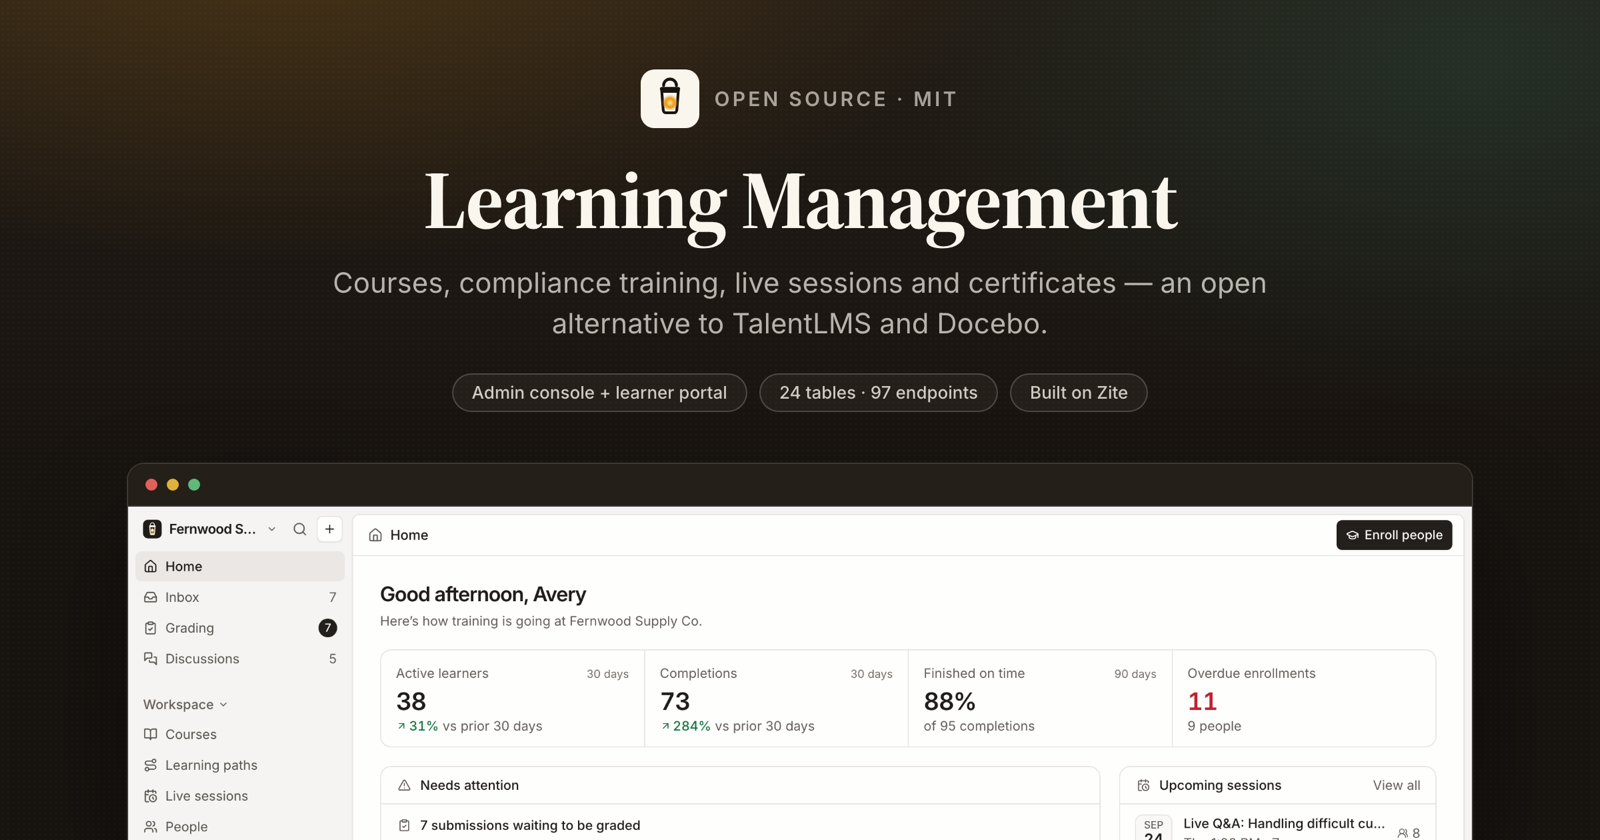
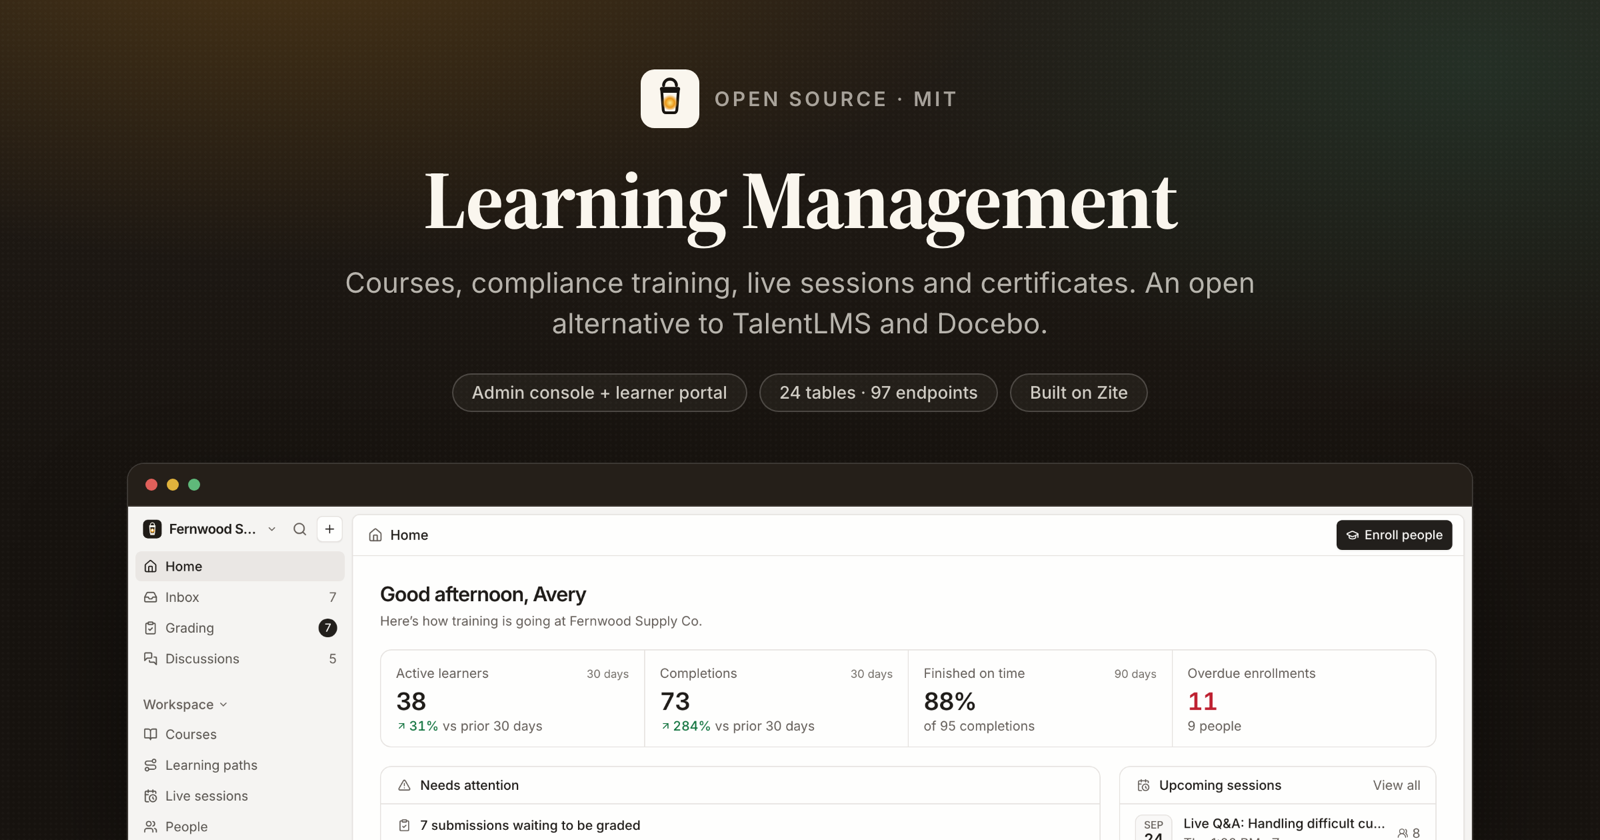
Copy pass on the docs
Drop the marketing framing in the opening paragraph for a plain description of
what a Zite solution is, and the "agent-native" slogan for what actually
happens. Remove em dashes throughout, including the one baked into the hero
image.

Changed region(s): [[0.2188, 0.3095, 0.7812, 0.3714]]

diff --git a/README.md b/README.md
@@ -1,11 +1,12 @@
 <p align="center">
-  <img alt="Learning Management — courses, compliance training, live sessions and certificates" src=".github/assets/hero.png">
+  <img alt="Learning Management: courses, compliance training, live sessions and certificates" src=".github/assets/hero.png">
 </p>
 
 <h3 align="center">Learning Management</h3>
 
 <p align="center">
-  The open-source LMS for compliance training, live sessions and certificates.
+  Open-source learning management: courses, compliance training, live sessions
+  and certificates.
   <br/>
   An open alternative to <b>TalentLMS</b>, <b>Docebo</b> and <b>360Learning</b>.
 </p>
@@ -31,10 +32,10 @@
 Training for a whole organization: build courses, assign them by rule, track
 compliance, run live sessions and issue certificates.
 
-It is a **Zite solution** — a complete workspace you can install and own, not a
-service you rent. [Zite](https://zite.com) gives you a Postgres database, an
-endpoint runtime, auth and hosting; everything above that is the ~76,000 lines of
-TypeScript in this repository. Fork it, change it, and it is yours.
+This is a **Zite solution**, meaning a workspace you install into your own
+[Zite](https://zite.com) account and then edit. Zite provides the Postgres
+database, the endpoint runtime, auth and hosting. Everything above that is the
+~76,000 lines of TypeScript in this repository.
 
 Two apps share one database:
 
@@ -43,9 +44,9 @@ Two apps share one database:
 | **Learning Management** | `apps/learning-management` | Admins and instructors: build courses and paths, enroll people, grade, run sessions, report on compliance | Internal (organization members) |
 | **Learner Portal** | `apps/learner-portal` | Learners and their managers: take courses, register for sessions, earn certificates, follow their team's progress | External (public, with sign-in) |
 
-It opens on a populated demo — Fernwood Supply Co., 39 people, 12 courses, 4
-learning paths and a year of history — so it is usable the moment it is installed,
-and there is a one-click way to delete all of it when you are ready for real data.
+It opens on a populated demo: Fernwood Supply Co., with 39 people, 12 courses, 4
+learning paths and a year of history, so every screen has something in it the
+first time you look. Settings has a one-click way to delete all of it.
 
 <p align="center">
   <img alt="The admin console: active learners, completions, on-time rate, and everything that needs a person" src=".github/assets/admin-home.png">
@@ -58,9 +59,9 @@ and there is a one-click way to delete all of it when you are ready for real dat
 ### For admins and instructors
 
 - **Home.** Active learners, completions and on-time rate against the previous
-  period; everything that needs a person — submissions to grade, unanswered learner
-  questions, overdue training by course, stalled learners, expiring certificates —
-  plus upcoming sessions and recent completions.
+  period, plus everything that needs a person: submissions to grade, unanswered
+  learner questions, overdue training by course, stalled learners and expiring
+  certificates. Upcoming sessions and recent completions sit alongside.
 
 - **Course builder.** Sections and eight lesson types: article (Markdown), video
   (YouTube, Vimeo, Loom, Wistia or an upload, with an optional watch requirement on
@@ -92,7 +93,7 @@ and there is a one-click way to delete all of it when you are ready for real dat
   import; each person's transcript, certificates, sessions and activity.
 
 - **Assignment rules.** Enroll everyone, or chosen groups, in a course or path with a
-  due date — including people who join later — and optionally repeat it every N
+  due date, including people who join later, and optionally repeat it every N
   months as recertification. Preview who a rule reaches before running it.
 
 - **Grading, inbox and discussions.** A grading queue with rubric, grade and feedback
@@ -123,7 +124,7 @@ and there is a one-click way to delete all of it when you are ready for real dat
 
 - **Daily reminders.** A scheduled job (14:00 UTC) sends due-date and overdue
   reminders, a weekly digest to managers of overdue reports, certificate-expiry
-  warnings and session reminders — each at most once per window — and opens
+  warnings and session reminders, each at most once per window, and opens
   recertification cycles when certificates near expiry.
 
 - **Everywhere:** ⌘K command menu, global search, `?` for every shortcut, light and
@@ -154,8 +155,8 @@ and there is a one-click way to delete all of it when you are ready for real dat
 
 ## Install it in your own workspace
 
-Zite is agent-native: you install this the same way you would build anything else on
-it — by pointing your coding agent at the platform and letting it drive.
+Zite apps are built by pointing a coding agent at the platform over MCP, and
+installing one works the same way.
 
 **1. Connect the Zite MCP server to your agent.**
 
@@ -163,7 +164,7 @@ it — by pointing your coding agent at the platform and letting it drive.
 claude mcp add --transport http zite https://mcp.zite.com/mcp
 ```
 
-(Cursor, VS Code and any other MCP client work the same way — see
+(Cursor, VS Code and any other MCP client work the same way. See
 [the Zite quickstart](https://developers.zite.com/quickstart).)
 
 **2. Give it this prompt.**
@@ -175,7 +176,7 @@ claude mcp add --transport http zite https://mcp.zite.com/mcp
 >    `/workspace`, keeping the sandbox's own `zite.config.json`.
 > 3. Read `zite.schema.json` and create all 24 tables with `create_table`, passing
 >    each field's `definition` (`name`, `type`, `template`) straight through. Do this
->    **before** `create_app` — `create_app` and `check_app` refresh
+>    **before** `create_app`, because `create_app` and `check_app` refresh
 >    `zite.schema.json` from the live database, and would otherwise blank it.
 > 4. `create_app` "Learning Management" (internal) and "Learner Portal" (external).
 >    Use those names exactly: the directory is derived from the name, and these two
@@ -190,7 +191,7 @@ real data, go to **Settings → Data → Remove demo data**, which deletes every
 seed created and keeps anything you have added since.
 
 <details>
-<summary>Then make it yours</summary>
+<summary>Setting it up for your own organization</summary>
 
 1. **Publish both apps.** The admin app is internal; the Learner Portal is external
    with sign-in. Open the Learner Portal once so links in emails point at it.
@@ -220,12 +221,12 @@ that matters:
 | `apps/*/src/` minus `api/` | The browser. A normal Vite + React SPA. |
 | `apps/*/src/api/*.ts` | Zite's endpoint runtime, server-side. One file = one endpoint. |
 | `packages/*` | Imported by both. No build step; consumed as TypeScript source. |
-| `.zite/` | Generated clients — typed DB access and a typed caller. Never edited by hand. |
+| `.zite/` | Generated clients: typed DB access and a typed caller. Never edited by hand. |
 
 The frontend never touches the database. It calls endpoints through a generated typed
 client (`import { getHome } from 'zitejs/api'`), and endpoints reach the database
-through another (`import { zite } from 'zitejs/db'`). 97 endpoints — 65 admin, 32
-learner.
+through another (`import { zite } from 'zitejs/db'`). 97 endpoints: 65 admin and
+32 learner.
 
 ```
 learning-management/
@@ -239,12 +240,12 @@ learning-management/
 │       ├── src/api/           32 endpoints
 │       └── src/pages/         14 pages
 ├── packages/
-│   ├── shared/                the domain core — imported by BOTH apps
+│   ├── shared/                the domain core, imported by BOTH apps
 │   │   ├── progress.ts        statuses, due states, points
 │   │   ├── lessons.ts         the 8 lesson types, quiz grading
 │   │   └── server/enroll.ts   the progress engine
 │   └── components/            shadcn/ui, vendored
-└── zite.schema.json           24 tables — the database, as a file
+└── zite.schema.json           24 tables, the database as a file
 ```
 
 ### The data model
@@ -267,8 +268,8 @@ AssignmentRules · Notifications · Activity · EmailTemplates · Views · Setti
 
 **Progress is derived, completion is final.** An enrollment's progress, status and
 due state are recomputed from `LessonProgress` by one engine
-(`packages/shared/server/enroll.ts`) that every write path calls — the player,
-grading, attendance, bulk actions. Once an enrollment completes it stays complete;
+(`packages/shared/server/enroll.ts`) that every write path calls: the player,
+grading, attendance and bulk actions. Once an enrollment completes it stays complete;
 editing the course afterwards doesn't reopen it.
 
 **Recertification is a new cycle, not a reset.** A rule that repeats every N months
@@ -281,8 +282,8 @@ so nothing goes stale overnight.
 
 **Lesson settings and answers are JSON.** Each lesson type's settings are parsed by
 `packages/shared/lessons.ts`, which also grades quizzes and strips answers before
-anything reaches a learner. **The server re-validates everything** — Zite doesn't
-enforce an endpoint's `inputSchema`.
+anything reaches a learner. **The server re-validates everything**, because Zite
+does not enforce an endpoint's `inputSchema`.
 
 **Both apps share `packages/shared`.** The progress engine, grading, brand colour
 maths, certificate artwork, lesson media and server helpers are imported by both
@@ -313,14 +314,14 @@ yarn dev:learner-portal       # learner portal on :8081
 ```
 
 **What works offline:** the whole frontend, `tsc`, and `vite build`. Editing a
-component hot-reloads as you would expect.
+component hot-reloads.
 
 **What does not:** the endpoints in `src/api/` execute on Zite's runtime against your
 workspace database, not on your machine. `yarn dev` serves the UI, but every endpoint
 call goes out to the workspace named in `.env.local` and needs a session for that
 organization. There is no local database mode yet.
 
-Run `yarn generate` after adding, renaming or deleting an endpoint — it regenerates
+Run `yarn generate` after adding, renaming or deleting an endpoint. It regenerates
 `.zite/` so `zitejs/api` sees the new name.
 
 ```bash
@@ -329,7 +330,7 @@ yarn run check    # tsc + endpoint bundling + vite build, both apps
 
 > **Note.** On an app this size `zitejs check` prints `bundle endpoints ✗` with no
 > error and exits non-zero. That is a 1 MB stdout buffer in the checker, not a real
-> failure — the `tsc` and `vite build` lines above it are trustworthy. To see genuine
+> failure. The `tsc` and `vite build` lines above it are trustworthy. To see genuine
 > endpoint errors, bundle to a file instead:
 > `npx zitejs bundle --app learning-management > /tmp/b.json` and read `endpointErrors`.
 
@@ -344,11 +345,11 @@ uploads, schedules) · [Claude](https://www.anthropic.com) for the optional AI f
 
 ## Contributing
 
-Issues and pull requests are welcome — see [CONTRIBUTING.md](CONTRIBUTING.md) for how
+Issues and pull requests are welcome. See [CONTRIBUTING.md](CONTRIBUTING.md) for how
 to get a workspace to develop against and what we look for in a change. Bugs and
 feature ideas go in [Issues](https://github.com/zite/learning-management/issues);
 anything security-related goes to [SECURITY.md](SECURITY.md) instead.
 
 ## License
 
-MIT — see [LICENSE](LICENSE). Third-party notices in [NOTICE](NOTICE).
+MIT. See [LICENSE](LICENSE). Third-party notices in [NOTICE](NOTICE).

diff --git a/CONTRIBUTING.md b/CONTRIBUTING.md
@@ -1,12 +1,12 @@
 # Contributing
 
-Thanks for taking the time. This is a **Zite solution** — a database plus two apps —
+Thanks for taking the time. This is a **Zite solution** (a database plus two apps),
 so contributing to it is a little different from a library, and mostly easier.
 
 ## What we're looking for
 
 - **Bug fixes**, especially in the progress engine, reports SQL or the lesson player.
-- **Lesson types, report columns, filters** — additive work that fits the existing
+- **Lesson types, report columns, filters.** Additive work that fits the existing
   shapes.
 - **Accessibility and keyboard** fixes. The admin console is meant to be usable
   without a mouse; anywhere it isn't is a bug.
@@ -18,9 +18,9 @@ Please open an issue before a large change, so we can agree the shape first.
 ## Getting a workspace to develop against
 
 Endpoints in `src/api/` run on Zite's runtime, not on your machine, so you need a
-workspace of your own before the app will load data. Install the template into one by
-following [Install it in your own workspace](README.md#install-it-in-your-own-workspace)
-— it takes a few minutes and gives you the demo data to work against.
+workspace of your own before the app will load data. Install the template into one
+by following [Install it in your own workspace](README.md#install-it-in-your-own-workspace).
+It takes a few minutes and gives you the demo data to work against.
 
 Then:
 
@@ -32,7 +32,7 @@ yarn dev:learner-portal      # learner portal on :8081
 ```
 
 The frontend hot-reloads locally. **Endpoint changes only take effect once they're
-deployed to your workspace** — edit them in a Zite sandbox and `commit`, or push and
+deployed to your workspace.** Edit them in a Zite sandbox and `commit`, or push and
 pull them in. This catches everyone once.
 
 ## Before you open a pull request
@@ -42,7 +42,7 @@ yarn generate    # only if you added, renamed or deleted an endpoint
 yarn run check   # tsc + endpoint bundling + vite build, both apps
 ```
 
-`zitejs check` reports `bundle endpoints ✗` with no error on an app this size — that
+`zitejs check` reports `bundle endpoints ✗` with no error on an app this size. That
 is a 1 MB stdout buffer in the checker, not your change. The `tsc` and `vite build`
 lines are the ones that matter. For real endpoint errors:
 
@@ -56,7 +56,7 @@ touched against a real workspace and check the logs before calling it done.
 
 ## House rules for the code
 
-These are load-bearing — see
+These are load-bearing. See
 [Decisions worth knowing](README.md#decisions-worth-knowing-before-extending-it) for
 the why.
 
@@ -70,7 +70,7 @@ the why.
 - **No `zod` in `packages/shared`.** The root has zod 4 and endpoints use the app's
   zod 3; importing it there breaks one of them.
 - **Foreign keys are text.** Cast the uuid side in joins (`c.id::text = e."courseId"`),
-  and remember unset text is `''`, never `NULL` — `IS NULL` matches nothing.
+  and remember unset text is `''`, never `NULL`, so `IS NULL` matches nothing.
 - **Write in small batches.** The live database rejects write bursts. Use `eachWrite`
   and `withRetry` from `packages/shared/server/sql.ts`.
 - **Match the surrounding style.** No formatter is enforced; the existing code is the

diff --git a/SECURITY.md b/SECURITY.md
@@ -13,7 +13,7 @@ we'll include you.
 ## Scope
 
 This repository is a **template**. It is installed into a workspace that you run, so
-a report against it is about the application code here — endpoint authorization, data
+a report against it is about the application code here: endpoint authorization, data
 exposure between people or organizations, injection through user-supplied content,
 that kind of thing.
 
@@ -25,12 +25,12 @@ go to security@zite.com too, but say which you mean.
 - The demo data is public sample content, including a passphrase used as a quiz
   answer. It is illustrative, not a credential.
 - The certificate verification page is deliberately public and unauthenticated. It
-  discloses only the recipient name, course title and issue/expiry dates — that is
+  discloses only the recipient name, course title and issue/expiry dates, which is
   what verification is for.
 - The Learner Portal is an external app. Which strangers can sign in is a per-install
   policy under **Settings → Academy**, not a code-level guarantee.
 
 ## Supported versions
 
-This is a template, not a released library — fixes land on `main` and you pick them
-up by merging. There are no maintained release branches.
+This is a template rather than a released library. Fixes land on `main` and you pick
+them up by merging. There are no maintained release branches.

diff --git a/.github/PULL_REQUEST_TEMPLATE.md b/.github/PULL_REQUEST_TEMPLATE.md
@@ -12,7 +12,7 @@
      surface at runtime. Say which endpoints or screens you actually exercised,
      and against what data. -->
 
-- [ ] `yarn run check` — `tsc` and `vite build` lines clean for both apps
+- [ ] `yarn run check`, with the `tsc` and `vite build` lines clean for both apps
 - [ ] `yarn generate` run (if an endpoint was added, renamed or deleted)
 - [ ] Exercised against a real workspace, not just a type-check
 - [ ] Checked the screens this touches at phone width, in light and dark
